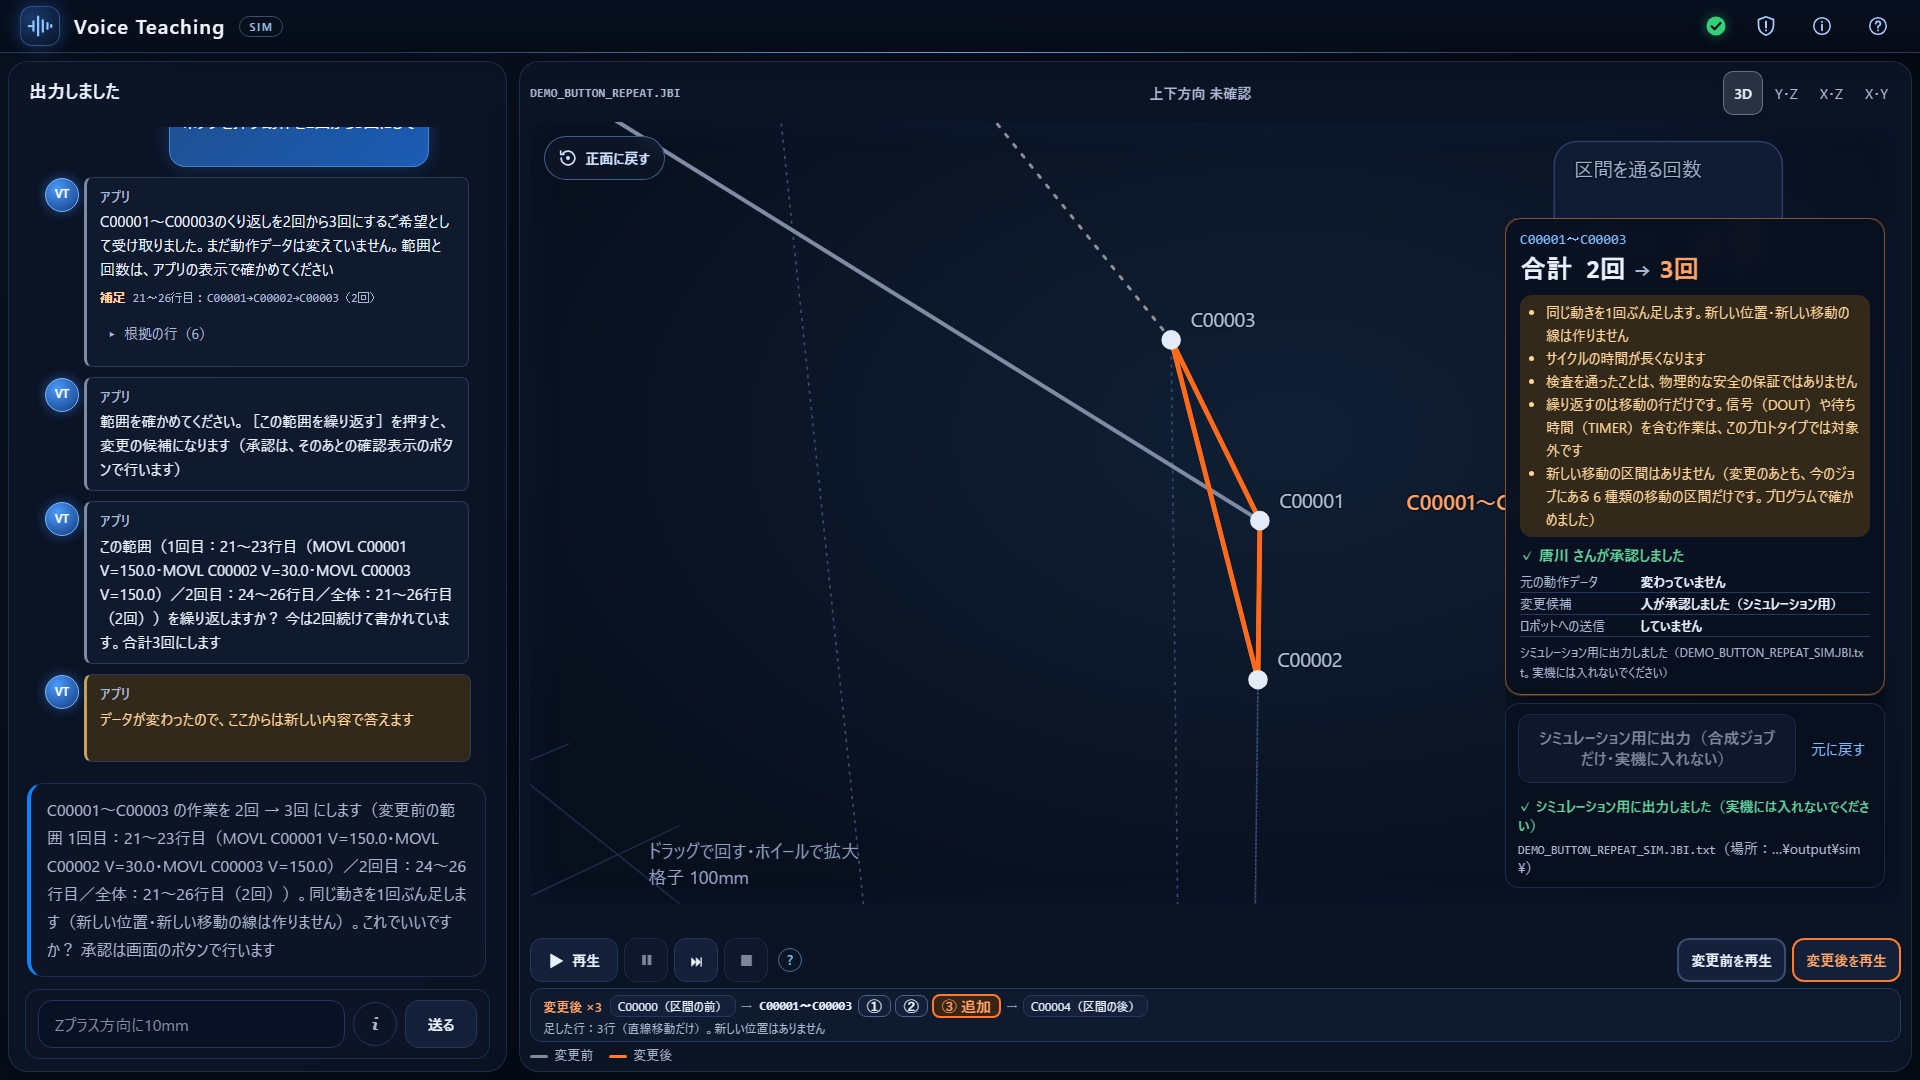
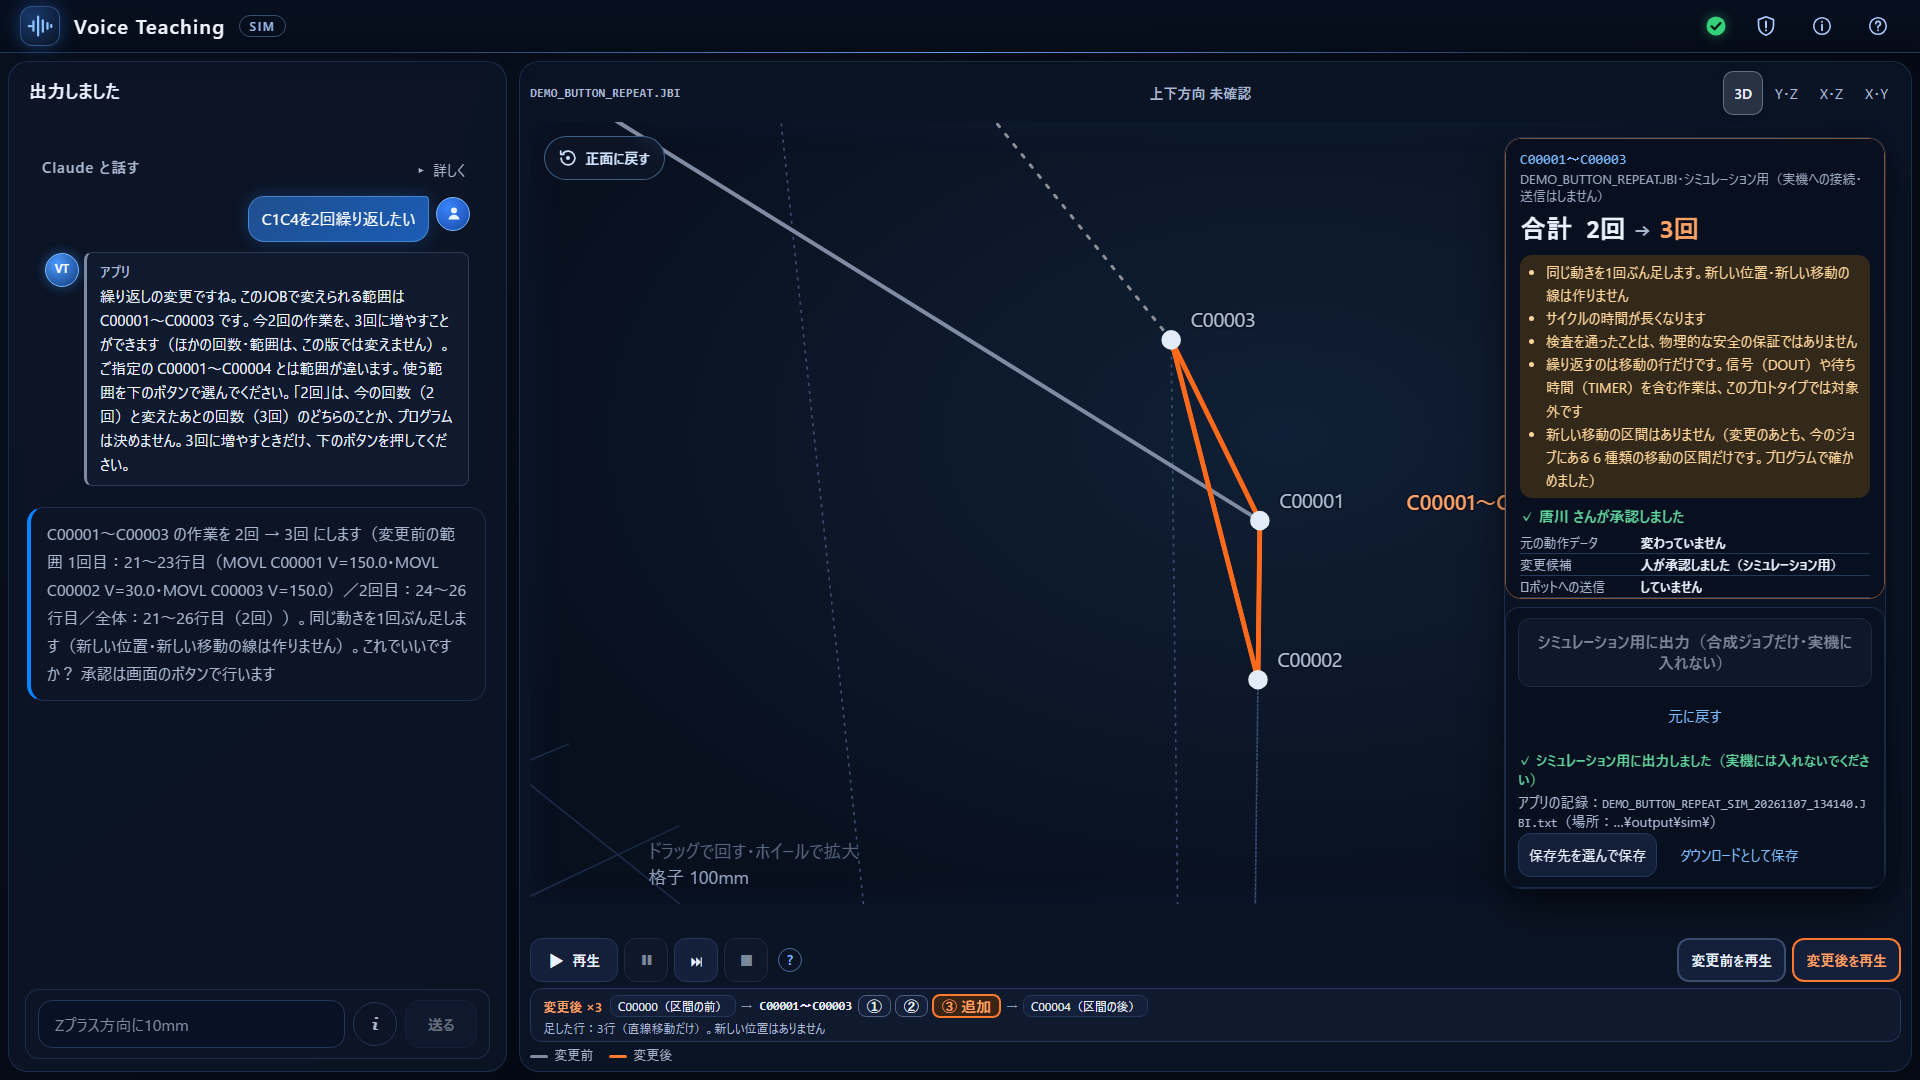
報告：承認1回・保存・範囲の案内のテストと残り（2bf46a1）。画面を本物の Claude で撮り直し

diff --git a/handoff/REPORT_APPROVE_SAVE_20261107.md b/handoff/REPORT_APPROVE_SAVE_20261107.md
@@ -60,3 +60,34 @@
 - **クロ（独立の安全レビュー）**：承認の1回化の状態の移り変わり（サーバーの承認の前提・候補の世代・保留・取り消し・二重押し・複数のタブ・API の直接呼び出し）と、出力の返事にバイト列を足したこと。XC-20・XC-23 の直しも
 - **クローク**：この SHA で回帰（承認の1回化・保存の窓は偽の窓で・ダウンロード・クーちゃん K1〜K8 の CSS）。OS の本物の保存の窓は手で
 - **クーちゃん**：承認の欄・保存の知らせの見た目（文は app.js・index.html にある。変えるなら案で渡してほしい）
+
+## 6. 回数の変更の範囲の案内（FINAL_RC_REPEAT_RANGE_GUIDANCE・同じ日の追加）
+- 回数の変更の気持ち（「繰り返したい」「2回」「もう1回」「C1C4を2回繰り返したい」）で、今までの道が候補も範囲の確かめも作れなかったとき、
+  **決まった文の言い直しを頼まず**、プログラムが JOB から確かめた範囲だけを案内する
+  - 範囲の根拠：`repeat_blocks`（続けて書かれた区間）と、2→3回の変更案を `plan_repeat` で本当に作れるか。**Claude には推測させない**
+  - 文：「繰り返しの変更ですね。このJOBで変えられる範囲は C00001〜C00003 です。今2回の作業を、3回に増やすことができます（ほかの回数・範囲は、この版では変えません）」
+  - 人が言った範囲が違えば「ご指定の C00001〜C00004 とは範囲が違います」。**置き換えない**
+  - 「2回繰り返したい」は 2→3 と決めない（「今の回数（2回）と変えたあとの回数（3回）のどちらのことか、プログラムは決めません」）
+  - ボタン：［C00001〜C00003 を3回にする（範囲を確かめる）］（今までの範囲の確かめへ進むだけ。承認ではない）・［今回は変更しない］（何もしない）
+  - 変えられる範囲が無い JOB：「このJOBでは、繰り返しの回数を変えられる範囲を確認できません」（ボタンなし）
+  - 出さない場面：変更が2つ・目的と変更・打ち消し・小数・だいたい・ためらい（今までの安全の文のまま）。候補・範囲の確かめ・承認があるとき
+  - 今までの道の理由（「C00004 が区間の外の MOVJ でも使われている」など）は消さずに前に置く
+- 3D：今の 3D は、もとから区間を「C00001〜C00003 ×2」と出している（新しい描き方は足していない）
+- 期待を変えたテスト：P1-C（言った範囲を区間に広げない）は「返事に C00001〜C00003 を出さない」→「出すなら違うと書き、人のボタンで選ばせる」。同じ回数（「2回続けて」）の「選択肢を出さない」→「往復の二択は出さない。案内のボタンは出してよい」。どちらも候補・範囲の確かめが勝手にできないことは今までどおり確かめる
+
+## 7. 最後のテスト（`release/v1.0-rc` 9818d24・タグ v1.0-rc-20261107-pm）
+| テスト | 結果 |
+|---|---|
+| pytest（偽の Claude） | **6936 passed・1 skipped・0 failed** |
+| Node | **128 / 128** |
+| e2e（モック・ブラウザー） | **OK 1494・NG 0「すべて通りました」**（e2e は時刻を決めて同じ名前の確かめをした） |
+| tools/check_approve_save.py | **OK 15・NG 0** |
+| 本物の Claude の画面の流れ（8901・1920×1080） | 30mm を断る → 量を聞き返す → 上をボタンで確かめる → 候補 → 名前＋［この変更を承認する］1回 → SIM 出力（日時の名前）→ 範囲の案内（「C1C4を2回繰り返したい」）→ 範囲のボタン → 回数の候補 → 承認1回 → 出力 →「4回にして」を断る。ページのエラー 0 |
+| 3つの大きさ | 1920・1440・1280 で［この変更を承認する］と候補の注意が画面の中（1280 は候補の窓の並べ順で注意を上に） |
+| OS の本物の保存の窓 | **未確認**（4章の手順で手で） |
+
+## 8. 残っていること
+- **クロの独立の安全レビュー**（承認1回・出力の返事のバイト列・XC-20／23・範囲の案内）、**クロークの回帰**（この SHA）、**唐川さんの実操作**
+- クーちゃん K1 は、承認のあとと選ぶボタンがあるときは 3D の右下に戻す（1920 の承認のあとは、候補の窓が変更の点に重なることがある）
+- 範囲の案内の文が、会話の吹き出しと返事の欄の2か所に出る（今の作りのまま）
+- 「さんがい」（3階の読み）・単位なしの「Z+3」は聞き返す（安全側）
